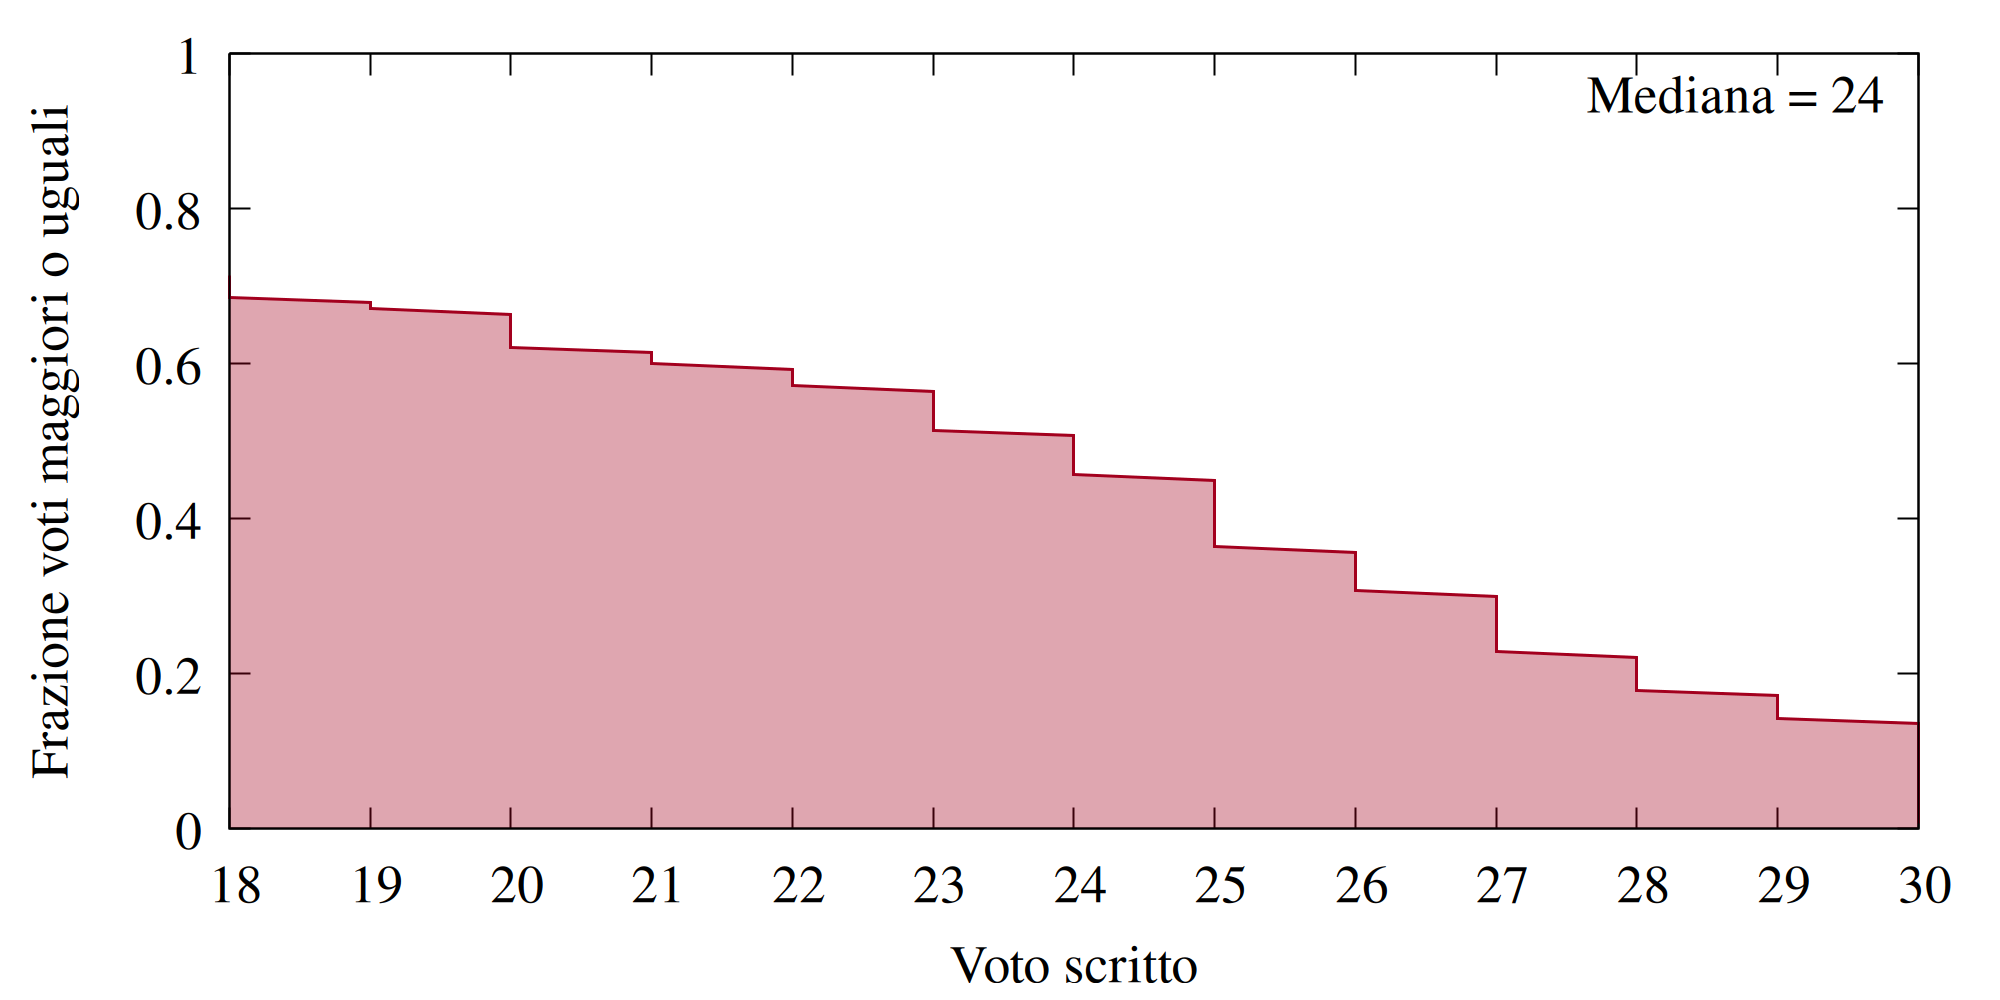
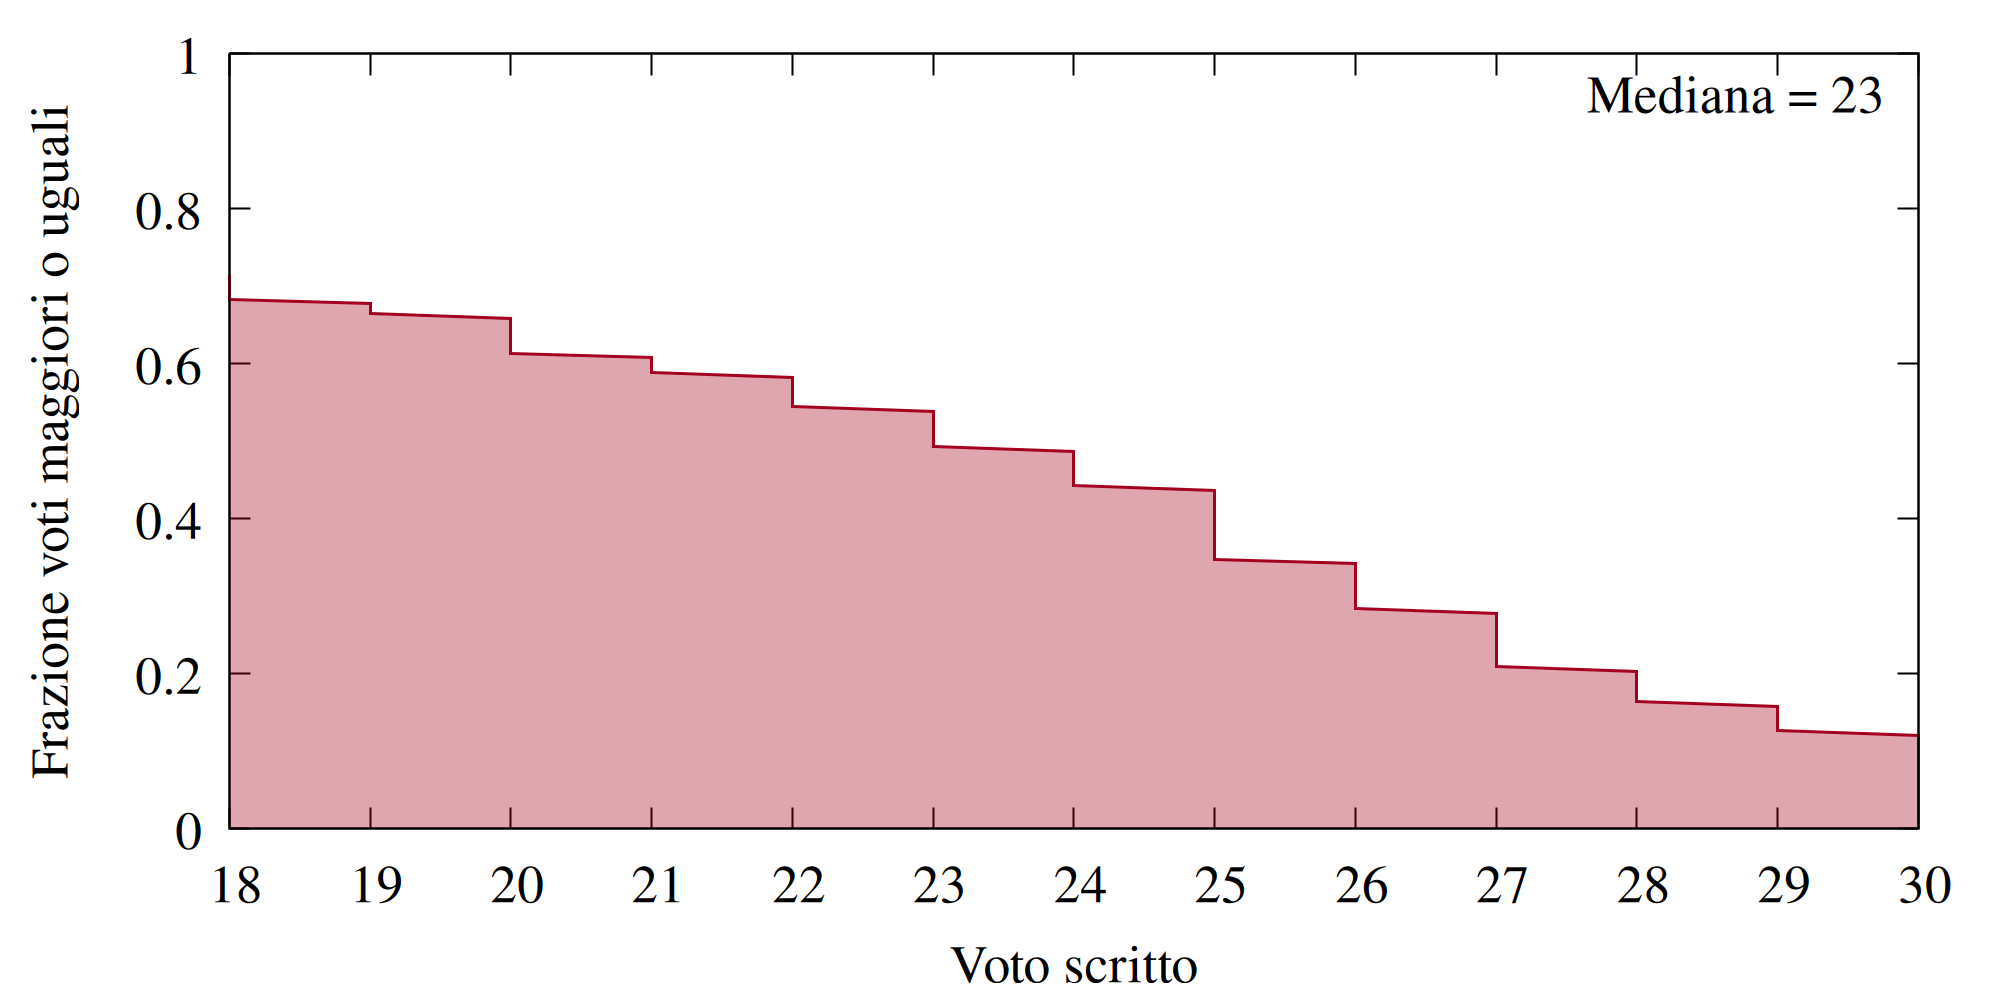
cal

diff --git a/docs/teaching/fmath2/fismat2/index.html b/docs/teaching/fmath2/fismat2/index.html
@@ -507,15 +507,15 @@ Editori Riuniti University Press, 2010.</li>
           <td style="text-align: left"><strong>2025</strong></td>
           <td>&mdash;</td>
           <td>&mdash;</td>
-          <td><a href="../exams/20250616.pdf" title="64%">16-06</a></td>
-          <td><a href="../exams/20250709.pdf" title="35%">09-07</a></td>
-          <td><a href="../exams/20250724.pdf" title="71%">24-07</a></td>
-          <td><a href="../exams/20250901.pdf" title="75%">01-09</a></td>
+          <td><a href="../exams/20250616.pdf" title="64% - Media promossi: 22.5">16-06</a></td>
+          <td><a href="../exams/20250709.pdf" title="35% - Media promossi: 23.8">09-07</a></td>
+          <td><a href="../exams/20250724.pdf" title="71% - Media promossi: 26.4">24-07</a></td>
+          <td><a href="../exams/20250901.pdf" title="75% - Media promossi: 24.3">01-09</a></td>
       </tr>
       <tr>
           <td style="text-align: left"><strong>2026</strong></td>
-          <td><a href="../exams/20260113.pdf" title="79%">13-01</a></td>
-          <td><a href="../exams/20260126.pdf" title="68%">26-01</a></td>
+          <td><a href="../exams/20260113.pdf" title="79% - Media promossi: 24">13-01</a></td>
+          <td><a href="../exams/20260126.pdf" title="68% - Media promossi: 23.2">26-01</a></td>
           <td>&mdash;</td>
           <td>&mdash;</td>
           <td>&mdash;</td>
